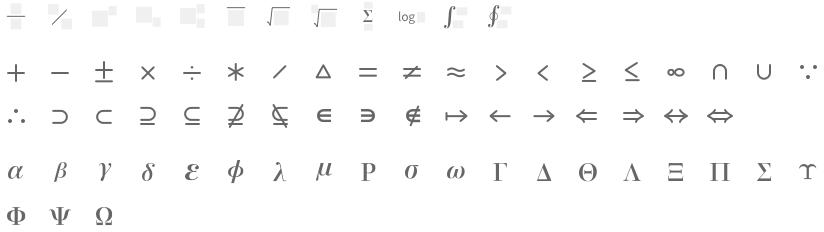
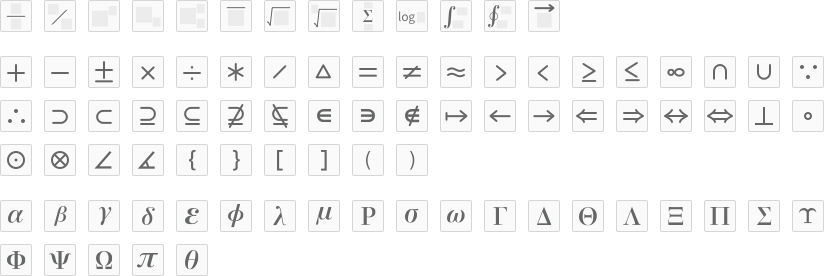
公式编辑器优化

diff --git a/packages/formula/src/index.js b/packages/formula/src/index.js
@@ -4,7 +4,7 @@ window.jQuery = $;
 import './mathquill';
 import Sketchpad from './sketchpad';
 import template from "./template";
-import rasterizeHTML from 'rasterizehtml';
+import html2canvas from 'html2canvas';
 import './index.less';
 import css from './mathquill.css';
 
@@ -19,46 +19,72 @@ const config = {
 export default class Formula {
     constructor(el) {
         el.innerHTML = template();
-        this.$root = $('#math');
-        this.root = this.$root[0];
-        const MQ = MathQuill.getInterface(2);
-        this.mathField = MQ.MathField(this.root, config);
+        // this.$root = $('#math');
+        // this.root = this.$root[0];
+        // const MQ = MathQuill.getInterface(2);
+        // this.mathField = MQ.MathField(this.root, config);
         this.init();
     }
-
-    latex(latex) {
-        if (latex === undefined) {
+    latex(latex){
+        if(latex===undefined){
             return this.mathField.latex();
         }
         return this.mathField.latex(latex);
     }
-
-    init() {
+    init(){
+        const iframe=this.iframe=document.createElement('iframe');
+        $('#_formula_result').append(iframe);
+        const doc=iframe.contentWindow.document;
+        doc.write(`<style>body{margin:0;padding:0;}${css.toString()}</style>`);
+        doc.write('<div id="math"></div>');
+        doc.write(`
+            <script>
+                window.toDataURL=function(latex) {
+                    var el=document.querySelector("#math .mq-root-block")
+                    if(!latex||!el){
+                        return Promise.resolve(null)
+                    }
+                    return window.html2canvas(el,{scale:1}).then(function (canvas) {
+                        return canvas.toDataURL()
+                    })
+                }
+            </script>
+        `);
+        const root=doc.getElementById('math');
+        const MQ = MathQuill.getInterface(2);
+        this.mathField = MQ.MathField(root, config);
         this.bindEvent();
-        this.latex('');
+    }
+    toDataURL(){
+        const latex=this.mathField.latex();
+        const iframeWindow=this.iframe.contentWindow;
+        if(!iframeWindow.html2canvas){
+            iframeWindow.html2canvas=html2canvas;
+        }
+        return this.iframe.contentWindow.toDataURL(latex);
     }
 
-    toDataURL() {
-        const latex = this.mathField.latex();
-        const el = $('#math .mq-root-block')[0];
-        if (!latex || !el) {
-            return Promise.resolve(null);
-        }
-        const canvas = document.createElement("canvas");
-        canvas.width=el.offsetWidth;
-        canvas.height=el.offsetHeight;
-        const cloneNode=this.root.cloneNode(true);
-        cloneNode.style.width=this.root.clientWidth+'px';
-        const context = canvas.getContext('2d');
-        const html=`
-            <style>body{margin:0;padding:0;}${cssString}</style>
-            ${cloneNode.outerHTML}
-        `;
-        return rasterizeHTML.drawHTML(html).then(res=>{
-            context.drawImage(res.image,el.offsetLeft,el.offsetTop,el.offsetWidth,el.offsetHeight,0,0,el.offsetWidth,el.offsetHeight);
-            return canvas.toDataURL();
-        });
-    }
+    // toDataURL() {
+    //     const latex = this.mathField.latex();
+    //     const el = $('#math .mq-root-block')[0];
+    //     if (!latex || !el) {
+    //         return Promise.resolve(null);
+    //     }
+    //     const canvas = document.createElement("canvas");
+    //     canvas.width=el.offsetWidth;
+    //     canvas.height=el.offsetHeight;
+    //     const cloneNode=this.root.cloneNode(true);
+    //     cloneNode.style.width=this.root.clientWidth+'px';
+    //     const context = canvas.getContext('2d');
+    //     const html=`
+    //         <style>body{margin:0;padding:0;}${cssString}</style>
+    //         ${cloneNode.outerHTML}
+    //     `;
+    //     return rasterizeHTML.drawHTML(html).then(res=>{
+    //         context.drawImage(res.image,el.offsetLeft,el.offsetTop,el.offsetWidth,el.offsetHeight,0,0,el.offsetWidth,el.offsetHeight);
+    //         return canvas.toDataURL();
+    //     });
+    // }
 
     bindEvent() {
         let sketchpad = null;

diff --git a/packages/formula/src/template.js b/packages/formula/src/template.js
@@ -6,8 +6,9 @@ const jmeMath = [
         x:0,
         y:0,
         list:[
-            "{/}frac{}{}","^{}/_{}","{/}newSup{}{}","{/}newSub{}{}","{/}newSupSub{}{}{}","{/}bar{}","{/}sqrt{}","{/}nthroot{}{}",
-            "{/}sum^{}_{}","{/}log_{}","{/}int_{}^{}","{/}oint_{}^{}"
+            "\\frac{}{}","^{}/_{}","\\newSup{}{}","\\newSub{}{}","\\newSupSub{}{}{}","\\bar{}",
+            "\\sqrt{}","\\nthroot{}{}","\\sum^{}_{}","\\log_{}","\\int_{}^{}","\\oint_{}^{}",
+            "\\overrightarrow{}"
         ]
     },
     {
@@ -15,21 +16,23 @@ const jmeMath = [
         x:0,
         y:-56,
         list:[
-            "+","-","{/}pm","{/}times","{/}ast","{/}div","/","{/}bigtriangleup",
-            "=","{/}ne","{/}approx",">","<","{/}ge","{/}le","{/}infty",
-            "{/}cap","{/}cup","{/}because","{/}therefore","{/}subset","{/}supset","{/}subseteq","{/}supseteq",
-            "{/}nsubseteq","{/}nsupseteq","{/}in","{/}ni","{/}notin","{/}mapsto","{/}leftarrow","{/}rightarrow",
-            "{/}Leftarrow","{/}Rightarrow","{/}leftrightarrow","{/}Leftrightarrow"
+            "+","-","\\pm","\\times","\\div","\\ast","/","\\bigtriangleup",
+            "=","\\ne","\\approx",">","<","\\ge","\\le","\\infty",
+            "\\cap","\\cup","\\because","\\therefore","\\supset","\\subset","\\supseteq","\\subseteq",
+            "\\nsupseteq","\\nsubseteq","\\in","\\ni","\\notin","\\mapsto","\\leftarrow","\\rightarrow",
+            "\\Leftarrow","\\Rightarrow","\\leftrightarrow","\\Leftrightarrow","\\perp","\\circ",
+            "\\bigotimes","\\bigodot","\\angle","\\measuredangle","\\lbrace","\\rbrace","[","]",
+            "(",")"
         ]
     },
     {
         title:"字母",
         x:0,
-        y:-(56+32+32+24+12),
+        y:-(56+32+32+24+12+32+12),
         list:[
-            "{/}alpha","{/}beta","{/}gamma","{/}delta","{/}varepsilon","{/}varphi","{/}lambda","{/}mu",
-            "{/}rho","{/}sigma","{/}omega","{/}Gamma","{/}Delta","{/}Theta","{/}Lambda","{/}Xi",
-            "{/}Pi","{/}Sigma","{/}Upsilon","{/}Phi","{/}Psi","{/}Omega"
+            "\\alpha","\\beta","\\gamma","\\delta","\\varepsilon","\\varphi","\\lambda","\\mu",
+            "\\rho","\\sigma","\\omega","\\Gamma","\\Delta","\\Theta","\\Lambda","\\Xi",
+            "\\Pi","\\Sigma","\\Upsilon","\\Phi","\\Psi","\\Omega","\\pi","\\theta"
         ]
     }
 ];

diff --git a/packages/formula/src/mathquill.css b/packages/formula/src/mathquill.css
@@ -1,11 +1,8 @@
-#math{
-  min-height:88px;
-  border:solid rgba(0, 0, 0, 0.25) 1px;
-  display: flex;
-  justify-content: center;
-  align-items: center;
-  outline: none;
-  position: relative;
+.mq-editable-field{
+  position: absolute;
+  left:50%;
+  top:50%;
+  transform: translate(-50%,-50%);
 }
 .mq-editable-field .mq-cursor {
   border-left: 1px solid black;
@@ -19,17 +16,12 @@
 .mq-editable-field .mq-cursor.mq-blink {
   visibility: hidden;
 }
-.mq-editable-field,
-.mq-math-mode .mq-editable-field {
-  border: 1px solid gray;
-}
 .mq-math-mode .mq-editable-field {
   margin: 1px;
 }
 .mq-editable-field .mq-latex-command-input {
   color: inherit;
   font-family: "Courier New", monospace;
-  border: 1px solid gray;
   padding-right: 1px;
   margin-right: 1px;
   margin-left: 2px;
@@ -61,6 +53,16 @@
 .mq-root-block .mq-empty,.mq-root-block .mq-hasCursor{
   display: inline-block;
   min-width: 1em;
+}
+.mq-math-mode .mq-root-block {
+  display: -moz-inline-box;
+  display: inline-block;
+  -webkit-box-sizing: border-box;
+  -moz-box-sizing: border-box;
+  box-sizing: border-box;
+  white-space: nowrap;
+  vertical-align: middle;
+  padding: 3px;
 }
 .mq-root-block.mq-empty:before{
   display: block;
@@ -105,17 +107,6 @@
   -moz-user-select: none;
   user-select: none;
   box-sizing: border-box;
-}
-.mq-math-mode .mq-root-block {
-  display: -moz-inline-box;
-  display: inline-block;
-  -webkit-box-sizing: border-box;
-  -moz-box-sizing: border-box;
-  box-sizing: border-box;
-  white-space: nowrap;
-  vertical-align: middle;
-  padding-left:3px;
-  padding-right:3px;
 }
 .mq-math-mode .mq-empty {
   background: #ccc;
@@ -341,6 +332,7 @@
   border-top: 1px solid black;
   margin-top: 1px;
   padding-top: 0.2em;
+  min-width: 1em;
 }
 .mq-math-mode .mq-overarrow:before {
   display: block;

diff --git a/packages/formula/webpack.dev.js b/packages/formula/webpack.dev.js
@@ -1,4 +1,6 @@
 const path = require('path');
+const webpack = require('webpack');
+const HtmlWebpackPlugin = require('html-webpack-plugin');
 const cssOptions=[
     "css-loader",
     {
@@ -16,18 +18,13 @@ const cssOptions=[
     },
 ];
 module.exports = {
-    mode: 'production',
-    devtool: false,
-    entry: {Formula:path.resolve(__dirname, 'src', 'index.js')},
+    mode:'development',
+    devtool: 'eval-source-map',
+    entry: './index.js',
+    target:['web','es3'],
     output: {
-        path: path.resolve(__dirname, "dist"),
-        filename: "[name].min.js",
-        library: "[name]",
-        libraryTarget: "umd",
-        libraryExport: "default",
-        globalObject: "this",
+        path: path.resolve(__dirname, './dist')
     },
-    target: ["web", "es5"],
     resolve: {
         extensions: [".ts",".js"]
     },
@@ -71,5 +68,20 @@ module.exports = {
                 ]
             }
         ]
+    },
+    plugins:[
+        new HtmlWebpackPlugin({
+            filename:'index.html',
+            template:path.join(__dirname,'./index.html')
+        }),
+        new webpack.HotModuleReplacementPlugin()
+    ],
+    devServer: {
+        port:8989,
+        host: '0.0.0.0',
+        hot:true,
+        compress:true,
+        historyApiFallback:true,
+        disableHostCheck: true,
     }
 };

diff --git a/packages/formula/src/index.less b/packages/formula/src/index.less
@@ -77,8 +77,6 @@ li{float:left;list-style:none;}
 	margin:5px;
 	background-image:url(math.png);
 	background-repeat: no-repeat;
-	border-radius: 2px;
-	border: solid 1px rgba(0, 0, 0, 0.15);
 }
 .mathIcon li:hover{
 	border-color: #1fb5ab;
@@ -90,7 +88,16 @@ li{float:left;list-style:none;}
 	padding:5px;
 	cursor:pointer;
 }
-
+#_formula_result{
+	min-height:88px;
+	border:solid rgba(0, 0, 0, 0.25) 1px;
+	iframe{
+		width:100%;
+		height:100%;
+		border:0;
+		vertical-align: top;
+	}
+}
 .math-canvas{
 	position: relative;
 	width:100%;

diff --git a/packages/formula/index.js b/packages/formula/index.js
@@ -1,0 +1,10 @@
+import Formula from './src';
+const formula=new Formula(document.getElementById('root'));
+
+document.getElementById('btn').addEventListener('click',()=>{
+    formula.toDataURL().then(res=>{
+        const img=document.createElement('img');
+        img.src=res;
+        document.body.appendChild(img);
+    });
+});

diff --git a/packages/formula/index.html b/packages/formula/index.html
@@ -1,0 +1,11 @@
+<!DOCTYPE html>
+<html lang="en">
+<head>
+    <meta charset="UTF-8">
+    <title>Title</title>
+</head>
+<body>
+<div id="root"></div>
+<button id="btn">生成图片</button>
+</body>
+</html>

diff --git a/packages/formula/src/template.html b/packages/formula/src/template.html
@@ -81,4 +81,4 @@
     <span>生成公式</span>
     <button class="preview-btn">公式预览</button>
 </div>
-<div id="math"></div>
+<div id="_formula_result"></div>
